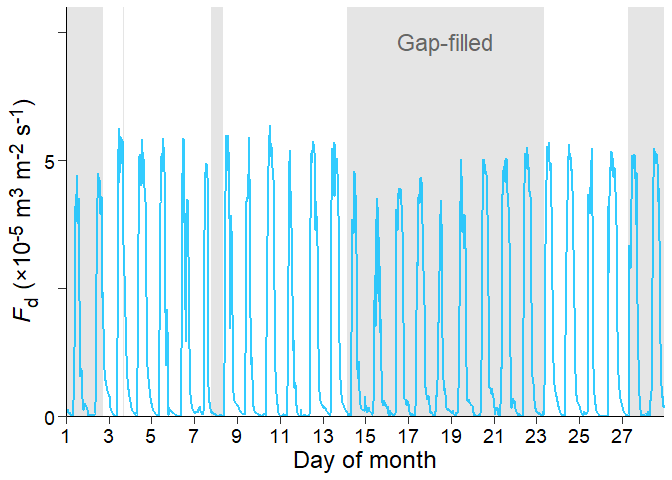
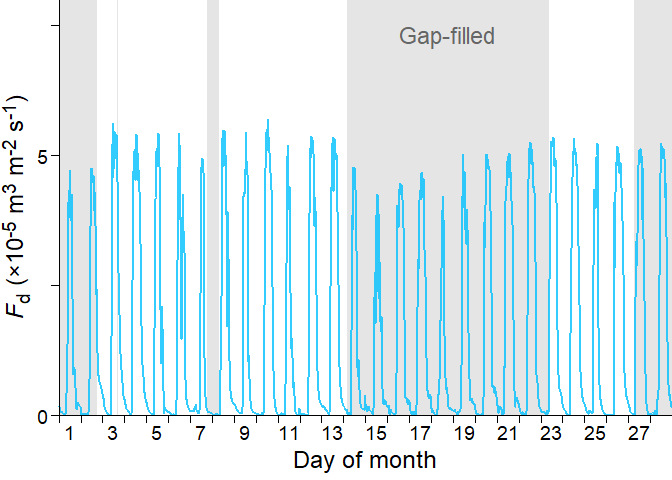
improve figures' x-labels

Changed region(s): [[0.0, 0.0, 1.0, 0.9375], [0.5938, 0.0625, 0.75, 0.125]]

diff --git a/README.md b/README.md
@@ -5,6 +5,8 @@
 
 <!-- badges: start -->
 
+[![CRAN
+status](https://www.r-pkg.org/badges/version/fluxfixer)](https://CRAN.R-project.org/package=fluxfixer)
 [![R-CMD-check](https://github.com/yhata86/fluxfixer/actions/workflows/R-CMD-check.yaml/badge.svg)](https://github.com/yhata86/fluxfixer/actions/workflows/R-CMD-check.yaml)
 [![Codecov test
 coverage](https://codecov.io/gh/yhata86/fluxfixer/graph/badge.svg)](https://app.codecov.io/gh/yhata86/fluxfixer)
@@ -29,27 +31,27 @@ Basically, you can conduct the whole process by executing only one
 function, `run_fluxfixer()`. Optionally, you can apply each process
 step-by-step using the functions such as:
 
--   `check_absolute_limits()` eliminates physically unreasonable values.
--   `modify_short_drift()` corrects short-term signal drifts.
--   `filter_highfreq_noise()` filters high-frequency noise from the time
-    series.
--   `remove_zscore_outlier()` detects and removes outliers by Z-score
-    transformation.
--   `remove_rf_outlier()` detects and removes outliers by a random
-    forest model.
--   `fill_gaps()` imputes all missing values in the time series by a
-    random forest model.
--   `retrieve_ts()` converts a standardized Z-score time series into a
-    time series in its original units while conducting detrending and
-    signal damping correction.
+- `check_absolute_limits()` eliminates physically unreasonable values.
+- `modify_short_drift()` corrects short-term signal drifts.
+- `filter_highfreq_noise()` filters high-frequency noise from the time
+  series.
+- `remove_zscore_outlier()` detects and removes outliers by Z-score
+  transformation.
+- `remove_rf_outlier()` detects and removes outliers by a random forest
+  model.
+- `fill_gaps()` imputes all missing values in the time series by a
+  random forest model.
+- `retrieve_ts()` converts a standardized Z-score time series into a
+  time series in its original units while conducting detrending and
+  signal damping correction.
 
 For sap flow data processing:
 
--   `calc_dtmax()` estimates the reference values of observed
-    temperature difference between probes under zero-flow conditions
-    (dTmax) with multiple methods.
--   `calc_fd()` calculates sap flux density, considering the heartwood
-    correction.
+- `calc_dtmax()` estimates the reference values of observed temperature
+  difference between probes under zero-flow conditions (dTmax) with
+  multiple methods.
+- `calc_fd()` calculates sap flux density, considering the heartwood
+  correction.
 
 You can learn more about how to use them in
 `browseVignettes("fluxfixer")`.
@@ -76,17 +78,17 @@ remotes::install_github("yhata86/fluxfixer")
 Assume that you have conducted a sap flow measurement in Malaysia from
 Sep. 2012 to Aug. 2013, and obtained a half-hourly time series below:
 
-<img src="man/figures/README-example_raw-1.png" width="100%" />
+<img src="man/figures/README-example_raw-1.png" alt="" width="100%" />
 
 where $\Delta T$ is the temperature difference between sap flow probes,
 which will be used in calculating the sap flux density ($F_\mathrm{d}$).
 
 You may feel upset since the time series has:
 
--   many values near zero due to power supply shortages
--   short-term drift in May, just after sensor replacement
--   Long-term trend of the daily maximum value because of sensor
-    degradation
+- many values near zero due to power supply shortages
+- short-term drift in May, just after sensor replacement
+- long-term trend of the daily maximum value because of sensor
+  degradation
 
 Do not worry. fluxfixer can rescue this time series and output a
 continuous, stationary time series.
@@ -123,13 +125,13 @@ result <-
 You can derive a data frame containing the post-processed time series
 below.
 
-<img src="man/figures/README-example_gf-1.png" width="100%" />
+<img src="man/figures/README-example_gf-1.png" alt="" width="100%" />
 
 The output data frame also contains $F_\mathrm{d}$ time series, which
 you ultimately want. Here is an example of the post-processed
 half-hourly $F_\mathrm{d}$ time series in Feb. 2013.
 
-<img src="man/figures/README-example_fd-1.png" width="100%" />
+<img src="man/figures/README-example_fd-1.png" alt="" width="100%" />
 
 The shaded area represents the gap-filled period by the random forest
 model. You can see that the imputed time series reproduced the diurnal
